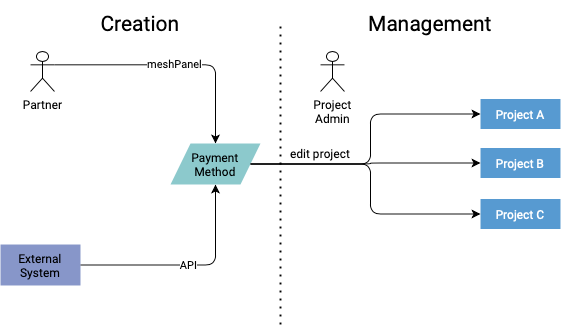
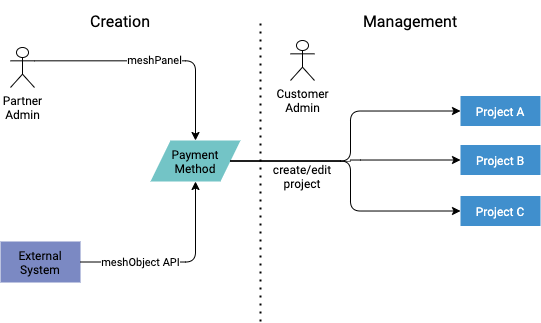
Added new page to sidebar + did some review comments

diff --git a/docs/meshcloud.payment-methods.md b/docs/meshcloud.payment-methods.md
@@ -1,5 +1,5 @@
 ---
-id: meshstack.payment-methods
+id: meshcloud.payment-methods
 title: Payment Methods
 ---
 
@@ -9,6 +9,8 @@ Just like you pay for a new t-shirt online via your credit card, enterprises als
 
 Payment methods are created **per** meshCustomer and come in two variants:
 
+### Types of Payment Methods
+
 1) A cost center payment method (indicated via `COST_CENTER`), meaning the costs made by the meshTenants in your meshProjects will be fully charged to the cost center of your organization.
 
 2) A budget payment method (indicated via `COST_LIMITATION`), meaning costs made by the meshTenants in your meshProjects will be charged based on the monetary budget amount that is set on this payment method.
@@ -17,7 +19,7 @@ Payment methods are created **per** meshCustomer and come in two variants:
 
 ## The Payment Method Lifecycle: Creation
 
-The first step in reaping the benefits of payment methods is creating them. A few important things must be considered about payment methods before creating them
+The first step in reaping the benefits of payment methods is creating them. A few important things must be considered about payment methods before creating them:
 
 1. A payment method is **always** scoped to a single meshCustomer. This means it is not possible to create a global payment method that can be used for all meshCustomers. It is also not possible to re-use a single payment method across multiple meshCustomers.
 2. A payment method's identifier is globally unique. This means you cannot create a payment method with the same identifier for multiple meshCustomers. Make sure to use an identifier that will not collide in other meshCustomers.
@@ -33,15 +35,15 @@ One way of creating payment methods is via the meshPanel. To do so, make sure th
 
 3. Click on 'Create Payment Method' at the top right.
 4. Enter a name and identifier for the new payment method.
-5. Choose a type for the payment method. Read more here on what type to choose and what the individual differences are.
-6. (This is optional) Set a maximum amount of EUR on the payment method to indicate the remaining budget for this year.
+5. Choose a type for the payment method. Read more [here](#types-of-payment-methods) on what type to choose and what the individual differences are.
+6. (This is optional) Set a maximum amount of EUR on the payment method to indicate the remaining budget of this payment method.
 7. (This is optional) Set an expiration date for the payment method. This is especially useful when a budget expires, e.g. at the end of the accounting year.
 8. Additionally, you can enter custom settings to inject metadata into the payment method. This is useful when you want to enhance the payment method with organizational details like the cost center number or the business unit.
 9. Click 'Save' and your new payment method will be available to the meshCustomer it was created in!
 
-### Creating a Payment Method via the meshstack API
+### Creating a Payment Method via the meshObject API
 
-As automation matters, there is also the possibility to create payment methods via the meshstack API. To find the API documentation, open your meshstack and click on 'API' at the bottom of the meshPanel. A new page will open and on the left-hand side, you should see `meshPaymentMethod` listed under `meshObject Import`. Click on it and read the documentation to understand how you can create a payment method via the API.
+As automation matters, there is also the possibility to create payment methods via the meshObject API. This is especially helpful when an external system already manages the data that is relevant for payment methods. To find the API documentation, open your meshstack and click on 'API' at the bottom of the meshPanel. A new page will open and on the left-hand side, you should see `meshPaymentMethod` listed under `meshObject Import`. Click on it and read the documentation to understand how you can create a payment method via the API.
 
 ## The Payment Method Lifecycle: Assigning to meshProjects
 
@@ -53,7 +55,7 @@ The payment methods that are assigned can be used for both existing meshProjects
 
 ### Applying a Payment Method to an existing meshProject
 
-In the Customer Account area, open 'Projects' on the left. Then click on the 'Edit project' button on the right for the meshProject you would like to add a payment method. In the 'Edit Project' screen, you'll see the selected payment methods on the right. As explained at the top of the page, you also have the ability to specify a Substitute Payment Method. A Substitute Payment Method is useful when working with expiring cost centers or budgets. This makes sure that when the active payment method expires, it will activate the substitute payment method.
+In the Customer Account area, open 'Projects' on the left. Then click on the 'Edit project' button on the right for the meshProject you would like to add a payment method. In the 'Edit Project' screen, you'll see the selected payment methods on the right. As explained at the top of the page, you also have the ability to specify a Substitute Payment Method. A Substitute Payment Method is useful when working with expiring cost centers or budgets. meshstack runs a job every night to make sure that when the Active Payment Method has expired, the Substitute Payment Method will be set as the active payment method. If there is no Substitute Payment Method, the Active Payment method will be set to 'None' instead.
 
 ![Set Payment Method in Project Edit screen](assets/payment_methods/payment_method_selection_project_edit.png)
 
@@ -73,9 +75,9 @@ After setting a payment method, you can continue the project creation flow and s
 
 ## The Payment Method Lifecycle: Enhance with Metadata
 
-As it is difficult to handle large amounts of payment methods only via their names or identifiers, there is the possibility to provide metadata (in the form of key-value pairs) to the payment methods. This metadata can be provided when creating/editing the payment method in the meshPanel. This is already described in step 8 for '**Creating a payment method via the meshPanel**'.
+As it is difficult to handle large amounts of payment methods only via their names or identifiers, there is the possibility to provide metadata (in the form of key-value pairs) to the payment methods. This metadata can be provided when creating/editing the payment method in the meshPanel. This is already described in step 8 [here](#creating-a-payment-method-via-the-meshpanel).
 
-An alternative way of providing metadata to payment methods is via the meshStack API. The API docs will describe how to inject the metadata in payment methods.
+An alternative way of providing metadata to payment methods is via the meshObject API. The API docs will describe how to inject the metadata in payment methods.
 
 ## The Payment Method Lifecycle: Exporting Data for External Systems
 
